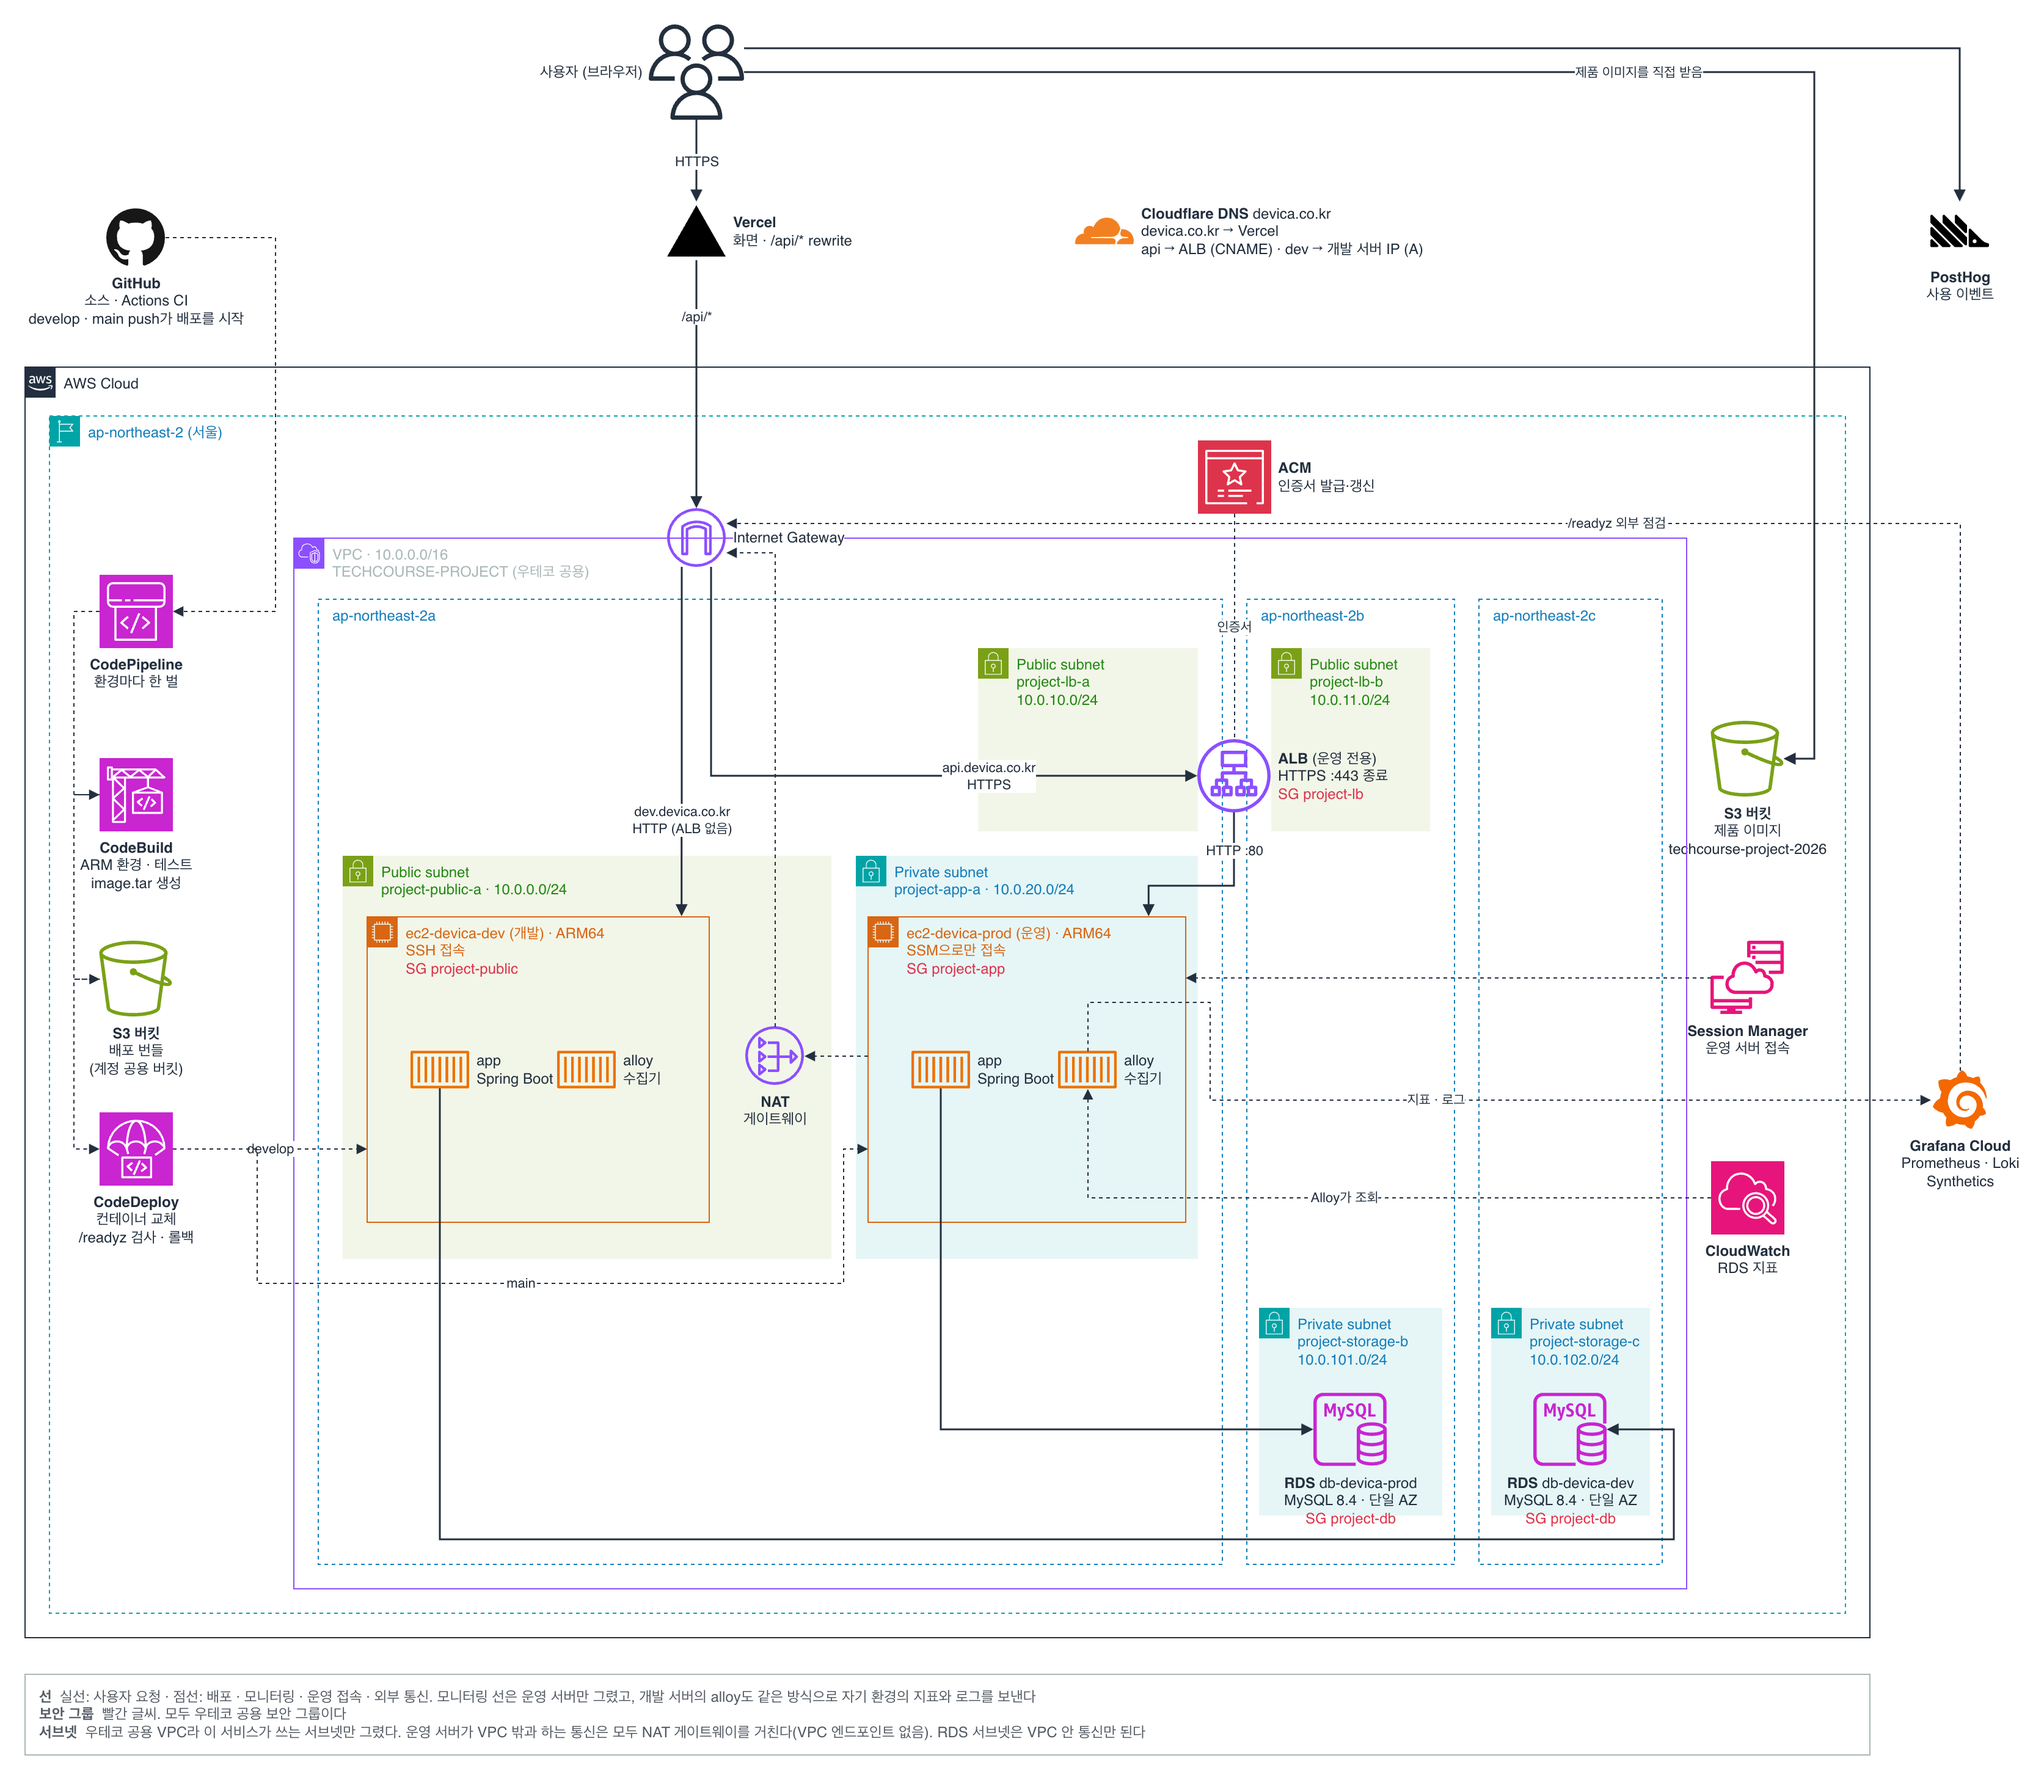
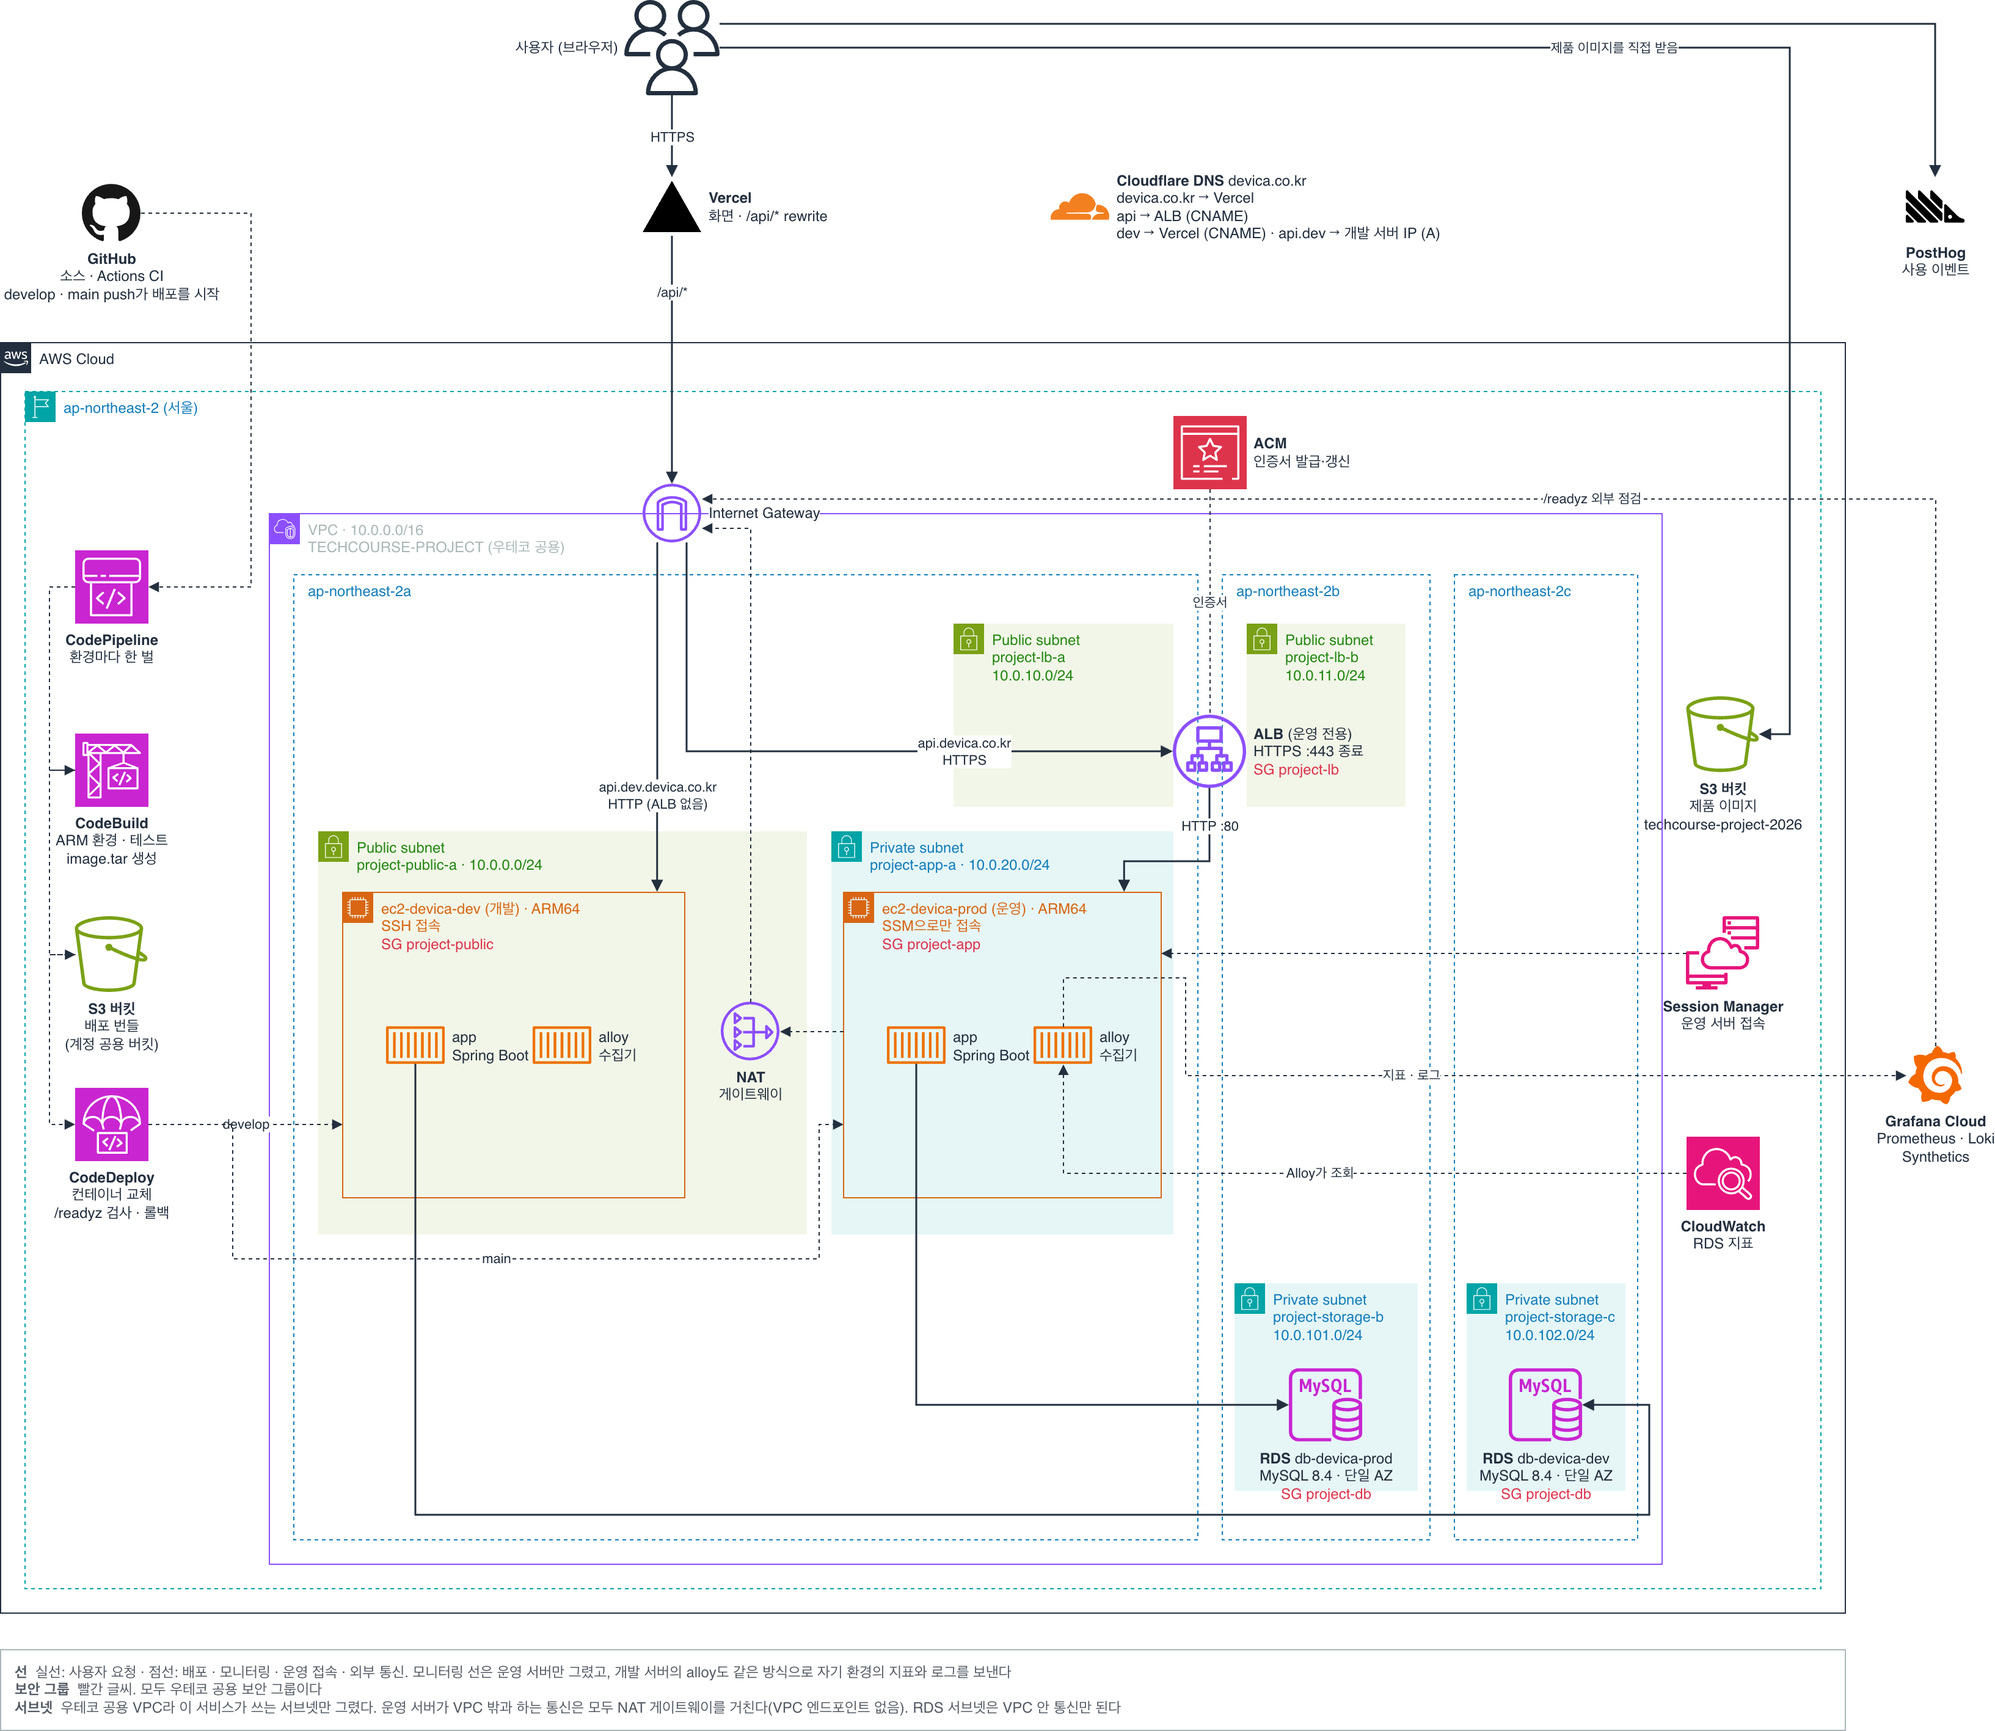
chore: 개발 서버 주소를 api.dev.devica.co.kr로 변경
- 제품 추천 개선 루프·k6 시나리오가 직접 호출하는 개발 서버 주소를 api.dev.devica.co.kr로 변경
- 결과 화면 주소 접두사에 https://dev.devica.co.kr/result 추가 (기존 이슈 링크를 위해 vercel.app 유지)
- 배포 가이드·쿠팡 가격 최신화 가이드·.env.server.example의 개발 주소와 DNS 표 수정
- 프론트엔드 배포 가이드에 actuator-proxy 규칙 추가
- 인프라 구성도의 개발 서버 주소와 Cloudflare 레코드 설명 수정

diff --git a/recommendation-improvement/common.py b/recommendation-improvement/common.py
@@ -48,7 +48,7 @@ Y2J = ('f=lambda{|o| case o when Hash then o.map{|k,v|[k.to_s,f.(v)]}.to_h when 
        'puts JSON.generate(f.(YAML.safe_load($stdin.read, permitted_classes: [Date, Time], aliases: true)))')
 CPU_RANK = {'BASIC': 0, 'PRO': 1, 'MAX': 2, 'U': 0, 'P_HS': 1, 'H': 2, 'HX': 3}
 ITEMS = ('REQUIRED_CPU', 'MEMORY', 'STORAGE')
-RESULT_PREFIXES = ('https://devica.co.kr/result', 'https://2026-devica.vercel.app/result')
+RESULT_PREFIXES = ('https://devica.co.kr/result', 'https://dev.devica.co.kr/result', 'https://2026-devica.vercel.app/result')
 MARKER_PREFIX = '<!-- product-recommendation:'
 API_TRIES = 5  # 끊김(#259) 때 api 가 보내는 최대 횟수
 # 댓글 표시 → 그 블록이 따라야 하는 스키마 (interface/binding.md)

diff --git a/docs/프론트엔드_배포_가이드.md b/docs/프론트엔드_배포_가이드.md
@@ -13,7 +13,7 @@
 | 계정             | 팀 공용 구글 계정                     | 〃                                                     |
 | Vercel 팀        | `woohyeon6885-7389s-projects`  | `devicateam-5900`                                     |
 | 프로젝트           | `2026-devica`                  | `devica`                                              |
-| 주소             | https://2026-devica.vercel.app | https://devica.co.kr (`www`는 apex로 리다이렉트)             |
+| 주소             | https://dev.devica.co.kr       | https://devica.co.kr (`www`는 apex로 리다이렉트)             |
 | 배포 브랜치         | `develop`                      | `main`                                                |
 | Root Directory | `frontend`                     | `frontend`                                            |
 | 환경 변수          | 없음                             | `VITE_POSTHOG_KEY` (팀 PostHog 프로젝트의 토큰)                |
@@ -33,8 +33,9 @@
 
 | 프로젝트          | 이름          | 모드    | Source        | 동작      | Destination                        |
 |---------------|-------------|-------|---------------|---------|------------------------------------|
-| `2026-devica` | `api-proxy` | Regex | `^/api/(.*)$` | Rewrite | `http://dev.devica.co.kr/api/$1`   |
-| `devica`      | `api-proxy` | Regex | `^/api/(.*)$` | Rewrite | `https://api.devica.co.kr/api/$1` |
+| `2026-devica` | `api-proxy` | Regex | `^/api/(.*)$` | Rewrite | `http://api.dev.devica.co.kr/api/$1` |
+| `2026-devica` | `actuator-proxy` | Regex | `^/actuator/(.*)$` | Rewrite | `http://api.dev.devica.co.kr/actuator/$1` |
+| `devica`      | `api-proxy` | Regex | `^/api/(.*)$` | Rewrite | `https://api.devica.co.kr/api/$1`    |
 
 각 주소의 `/api/product-categories`를 열어 JSON 응답이 오면 연결된 것이다.
 

diff --git a/performance/k6/board-list/README.md b/performance/k6/board-list/README.md
@@ -96,21 +96,21 @@ WHERE p.usage_purpose_id = @board_purpose_id;
 
 ```bash
 # 스모크: 기본 목록 요청 비율로 4초마다 1건, 1분
-k6 run -e BASE_URL=http://dev.devica.co.kr \
+k6 run -e BASE_URL=http://api.dev.devica.co.kr \
   performance/k6/board-list/smoke.js
 
 # 기본 목록 조회: 총 2 RPS, 워밍업 1분 → 측정 10분
-k6 run -e BASE_URL=http://dev.devica.co.kr \
+k6 run -e BASE_URL=http://api.dev.devica.co.kr \
   --summary-export=performance/results/board-list-browse-before-1.json \
   performance/k6/board-list/load.js
 
 # 추가 진단: 첫 페이지 고정
-k6 run -e BASE_URL=http://dev.devica.co.kr -e POST_PAGE=0 \
+k6 run -e BASE_URL=http://api.dev.devica.co.kr -e POST_PAGE=0 \
   --summary-export=performance/results/board-list-first-before-1.json \
   performance/k6/board-list/load.js
 
 # 추가 진단: 깊은 페이지 고정. 앞 테스트의 서버 작업이 정리된 뒤 실행
-k6 run -e BASE_URL=http://dev.devica.co.kr -e POST_PAGE=1000 \
+k6 run -e BASE_URL=http://api.dev.devica.co.kr -e POST_PAGE=1000 \
   --summary-export=performance/results/board-list-deep-before-1.json \
   performance/k6/board-list/load.js
 ```

diff --git a/recommendation-improvement/README.md b/recommendation-improvement/README.md
@@ -242,7 +242,7 @@ recommendation-improvement/
 3. **레포 clone**: 이 레포의 clone 하나를 작업 폴더로 정한다. 평소 쓰는 clone 이어도 된다.
 4. **Feedback Analyzer**: 아래 두 줄이 모두 `200` 을 출력하는지 본다.
    ```bash
-   curl -s -o /dev/null -w '%{http_code}\n' http://dev.devica.co.kr/api/usage-purposes/BACKEND_DEVELOPMENT/recommendation
+   curl -s -o /dev/null -w '%{http_code}\n' http://api.dev.devica.co.kr/api/usage-purposes/BACKEND_DEVELOPMENT/recommendation
    curl -s -o /dev/null -w '%{http_code}\n' https://api.devica.co.kr/api/usage-purposes/BACKEND_DEVELOPMENT/recommendation
    ```
 5. **Recommendation Improver**: JDK 와 Docker Desktop 을 설치하고([백엔드 개발 환경 가이드](../docs/백엔드_개발_환경_가이드.md)), 작업이 실행되는 동안 Docker Desktop 을 켜 둔다.

diff --git a/recommendation-improvement/interface/artifacts/feedback.md b/recommendation-improvement/interface/artifacts/feedback.md
@@ -17,7 +17,7 @@
 [제품 추천 지표] Mac 권장안에서 메모리가 과해요
 
 <!-- 한 줄에 하나. 사용자 피드백은 하나, 지표 피드백은 같은 신호를 보인 답 조합마다 한 줄이다. 건수가 많은 것부터 적는다.
-     https://devica.co.kr/result 또는 https://2026-devica.vercel.app/result 로 시작하고,
+     https://devica.co.kr/result, https://dev.devica.co.kr/result, https://2026-devica.vercel.app/result 중 하나로 시작하고,
      고른 선택지마다 answer=질문.선택지 가 하나씩 붙는다. answer 밖의 값이 함께 있을 수 있다.
      같은 답 조합이라도 바꾼 답이 다르면 다른 주소라, 같은 주소가 두 줄 나올 수 있다. -->
 ### 결과 화면 주소

diff --git a/docs/쿠팡_가격_최신화_가이드.md b/docs/쿠팡_가격_최신화_가이드.md
@@ -267,7 +267,7 @@ COUPANG_PRICE_REFRESH_CRON="0 0 4 * * *"
 ### 제품 링크와 모니터링
 
 서버 제품 링크는 `DEVICA_PUBLIC_BASE_URL`로 설정한다(prod 기본 `https://devica.co.kr`, dev는
-`https://2026-devica.vercel.app`). 로컬 명령은 셸 환경변수가 없으면 `http://localhost:5173`을 사용한다.
+`https://dev.devica.co.kr`). 로컬 명령은 셸 환경변수가 없으면 `http://localhost:5173`을 사용한다.
 
 앱에는 실행·상품별 결과를 남기는 로그가 구현되어 있다. 서버 로그는 기존 앱 로그 파일 → Alloy → Loki 경로를 사용한다.
 로컬 `build/reports/*.log`는 서버 Alloy의 수집 대상이 아니므로 Cloud에 자동 전송되지 않는다.
